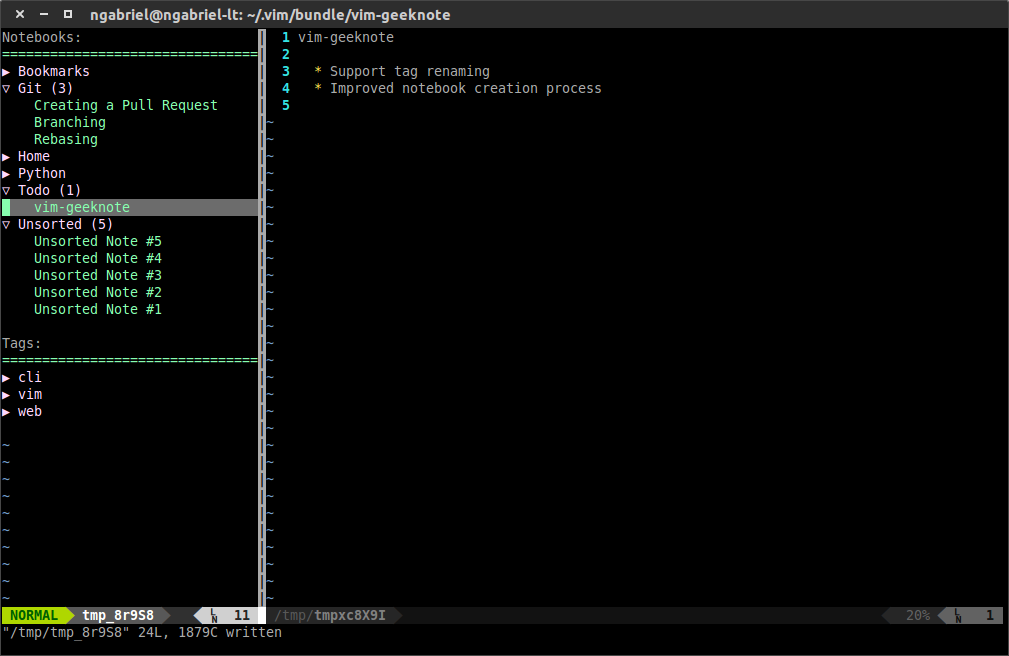
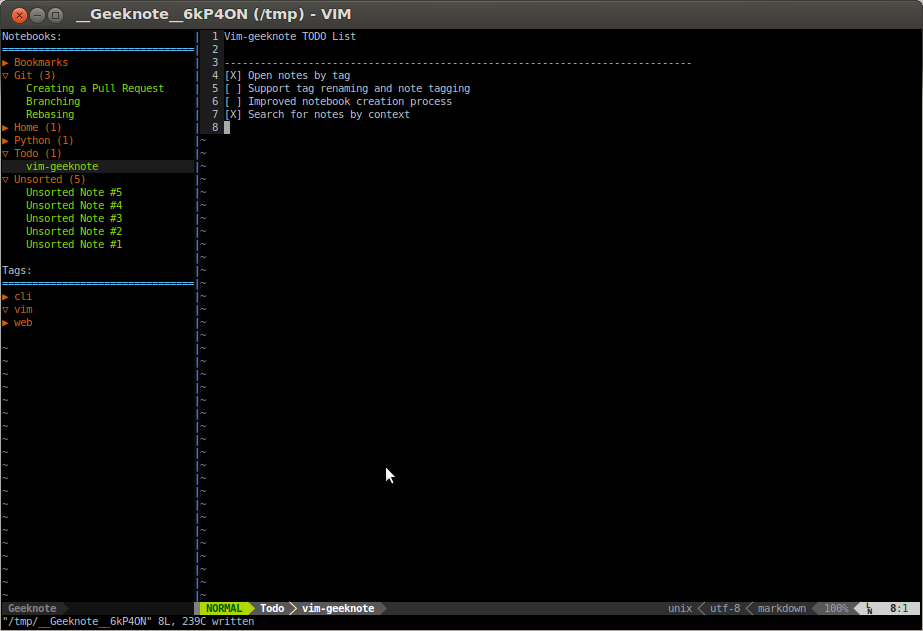
Version 0.6: Minor UI improvements.

Changed region(s): [[0.0, 0.0, 1.0, 1.0], [0.0, 0.7528, 0.0303, 0.8431], [0.0, 0.6926, 0.0303, 0.7227]]

diff --git a/plugin/explorer.py b/plugin/explorer.py
@@ -178,9 +178,9 @@ class NotebookNode(Node):
             del self.children[:]
 
             notes = self.getNotes()
-
             for note in notes:
                 self.addNote(note)
+
             self.loaded = True
 
         super(NotebookNode, self).expand()
@@ -275,6 +275,7 @@ class NoteNode(Node):
         line  = ' ' * (self.indent * 4)
         line += self.title.decode('utf8')
 
+        line = line.encode('utf8')
         self.prefWidth = len(line)
 
         line = '{:<48} n[{}]'.format(line, self.getKey())
@@ -360,7 +361,8 @@ class Explorer(object):
 
         self.refresh()
 
-        self.dataFile = tempfile.NamedTemporaryFile(delete=True)
+        self.dataFile = tempfile.NamedTemporaryFile(
+            prefix='__GeeknoteExplorer__', delete=True)
 
         autocmd('BufWritePre' , 
                 self.dataFile.name, 
@@ -391,18 +393,34 @@ class Explorer(object):
 
     def addNote(self, note):
         notebook = getNodeByInstance(note.notebookGuid, 0)
+        node = notebook.addNote(note) 
+
+        #
+        # Expand the notebook so that the new node can be selected. This must
+        # occur after the node is added to the notebook. If done before, it is
+        # possible for the node to get added twice.
+        #
         notebook.expand()
 
-        node = notebook.addNote(note) 
+        #
+        # Re-render the explorer window. This ensures that the new node will
+        # assigned a row number so that it can be selected.
+        #
+        self.render()
         self.selectNode(node)
 
     def addNotebook(self, notebook):
         node = NotebookNode(notebook)
+        registerNode(node)
+
         self.notebooks.append(node)
         self.notebooks.sort(key=lambda n: n.notebook.name.lower())
 
-        registerNode(node)
-
+        #
+        # Re-render the explorer window. This ensures that the new node will
+        # assigned a row number so that it can be selected.
+        #
+        self.render()
         self.selectNode(node)
 
     def addSearchResults(self, results):
@@ -482,7 +500,7 @@ class Explorer(object):
 
         return None
 
-    def getSelectedNotebook(self):
+    def getSelectedNode(self):
         if self.buffer is None:
             return None
 
@@ -493,13 +511,17 @@ class Explorer(object):
 
         key = self.getNodeKey(text)
         if key is not None:
-            node = getNode(key)
-            if isinstance(node, NotebookNode):
+            return getNode(key)
+        return None
+
+    def getSelectedNotebook(self):
+        node = self.getSelectedNode()
+        if isinstance(node, NotebookNode):
+            return node.notebook
+        if isinstance(node, NoteNode): 
+            if isinstance(node.parent, NotebookNode):
+                node = getNode(node.parent.getKey())
                 return node.notebook
-            if isinstance(node, NoteNode): 
-                if isinstance(node.parent, NotebookNode):
-                    node = getNode(node.parent.getKey())
-                    return node.notebook
         return None
 
     def getNodeKey(self, nodeText):
@@ -555,10 +577,6 @@ class Explorer(object):
             self.addTag(tag)
         self.restoreExpandState()
 
-        if self.selectedNode is None:
-            notebook = GeeknoteGetDefaultNotebook()
-            self.selectNotebook(notebook)
-
     def refreshNotebooks(self):
         #
         # If the user already specified which notebooks to load, load just
@@ -603,6 +621,12 @@ class Explorer(object):
 
         origWin = getActiveWindow()
         setActiveBuffer(self.buffer)
+
+        # Save the selected node before redrawing the explorer.
+        self.selectedNode = self.getSelectedNode()
+        if self.selectedNode is None:
+            notebook = GeeknoteGetDefaultNotebook()
+            self.selectNotebook(notebook)
 
         # 
         # Before overwriting the navigation window, look for any changes made

diff --git a/plugin/vim_geeknote.py b/plugin/vim_geeknote.py
@@ -34,8 +34,11 @@ explorer = Explorer()
 def GeeknoteActivateNode():
     explorer.activateNode(vim.current.line)
 
-def GeeknoteTerminate():
-    GeeknoteCloseAllNotes()
+def GeeknoteCommitStart():
+    explorer.commitChanges()
+
+def GeeknoteCommitComplete():
+    explorer.render()
 
 def GeeknoteCreateNote(title):
     #
@@ -66,7 +69,6 @@ def GeeknoteCreateNote(title):
 
     # Add the note to the navigation window.
     explorer.addNote(note)
-    explorer.render()
 
 def GeeknoteCreateNotebook(name):
     notebook = Types.Notebook()
@@ -77,7 +79,17 @@ def GeeknoteCreateNotebook(name):
         vim.command('echoerr "Failed to create notebook."')
 
     explorer.addNotebook(notebook)
-    explorer.render()
+
+def GeeknoteHandleNoteSaveFailure(note, e):
+    print e
+    msg  = '+------------------- WARNING -------------------+\n'
+    msg += '|                                               |\n'
+    msg += '| Failed to save note (see error above)         |\n'
+    msg += '|                                               |\n'
+    msg += '| Save buffer to a file to avoid losing content |\n'
+    msg += '|                                               |\n'
+    msg += '+------------------- WARNING -------------------+\n'
+    vim.command('echoerr "%s"' % msg)
 
 def GeeknoteSaveAsNote():
     global explorer
@@ -129,17 +141,10 @@ def GeeknoteSaveAsNote():
         GeeknoteHandleNoteSaveFailure(note, e)
         return
 
-    explorer.addNote(note)
-    explorer.render()
-
     GeeknoteOpenNote(note)
 
-def GeeknoteSearch(args):
-    notes = GeeknoteGetNotes(args)
-
-    explorer.clearSearchResults()
-    explorer.addSearchResults(notes)
-    explorer.render()
+    # Add the note to the navigation window.
+    explorer.addNote(note)
 
 def GeeknoteSaveNote(filename):
     note    = GeeknoteGetOpenNote(filename)
@@ -150,27 +155,20 @@ def GeeknoteSaveNote(filename):
         except Exception as e:
             GeeknoteHandleNoteSaveFailure(note, e)
 
-def GeeknoteHandleNoteSaveFailure(note, e):
-    msg  = '%s\n' % e
-    msg += '+------------------- WARNING -------------------+\n'
-    msg += '|                                               |\n'
-    msg += '| Failed to save note (see error above)         |\n'
-    msg += '|                                               |\n'
-    msg += '| Save buffer to a file to avoid losing content |\n'
-    msg += '|                                               |\n'
-    msg += '+------------------- WARNING -------------------+\n'
-    vim.command('echoerr "%s"' % msg)
+def GeeknoteSearch(args):
+    notes = GeeknoteGetNotes(args)
+
+    explorer.clearSearchResults()
+    explorer.addSearchResults(notes)
+    explorer.render()
 
 def GeeknoteSync():
     explorer.commitChanges()
     explorer.refresh()    
     explorer.render()
 
-def GeeknoteCommitStart():
-    explorer.commitChanges()
-
-def GeeknoteCommitComplete():
-    explorer.render()
+def GeeknoteTerminate():
+    GeeknoteCloseAllNotes()
 
 def GeeknoteToggle():
     global explorer

diff --git a/plugin/view.py b/plugin/view.py
@@ -114,7 +114,8 @@ def GeeknoteOpenNote(note):
         content = tools.stdoutEncode(content)
 
         # Write the note's title and content to a temporary file.
-        f = tempfile.NamedTemporaryFile(delete=False)
+        f = tempfile.NamedTemporaryFile(prefix='__Geeknote__', delete=False)
+
         f.write(note.title + '\n\n')
         
         isNoteEmpty = not content.strip()
@@ -149,6 +150,10 @@ def GeeknoteOpenNote(note):
         autocmd('BufDelete',
                 f.name, 
                 ':call Vim_GeeknoteCloseNote("{}")'.format(f.name))
+
+        vim.command("let b:GeeknoteTitle=\"%s\"" % note.title)
+        notebook = GeeknoteGetNotebook(note.notebookGuid)
+        vim.command("let b:GeeknoteNotebook=\"%s\"" % notebook.name)
     #
     # Otherwise, the note has aleady been opened. Simply switch the active window
     # to the note's buffer.

diff --git a/powerline/segments/geeknote.py b/powerline/segments/geeknote.py
@@ -1,0 +1,32 @@
+# vim:fileencoding=utf-8:noet
+from __future__ import (unicode_literals, division, absolute_import, print_function)
+
+try:
+	import vim
+except ImportError:
+	vim = object()
+
+from powerline.bindings.vim import bufvar_exists
+from powerline.segments.vim import window_cached
+
+
+@window_cached
+def geeknote_get_note_title(pl):
+	if not bufvar_exists(None, 'GeeknoteTitle'):
+		return None
+
+	title = vim.eval('getbufvar("%", "GeeknoteTitle")')
+	return [{
+		'contents': title,
+		'highlight_group': ['file_name'],
+	}]
+
+def geeknote_get_notebook_name(pl):
+	if not bufvar_exists(None, 'GeeknoteNotebook'):
+		return None
+
+	name = vim.eval('getbufvar("%", "GeeknoteNotebook")')
+	return [{
+		'contents': name,
+		'highlight_group': ['file_name'],
+	}]

diff --git a/powerline/matchers/geeknote.py b/powerline/matchers/geeknote.py
@@ -1,0 +1,19 @@
+# vim:fileencoding=utf-8:noet
+from __future__ import (unicode_literals, division, absolute_import, print_function)
+
+import os
+import re
+
+from powerline.bindings.vim import buffer_name
+
+GEEKNOTE_RE = re.compile('__Geeknote__')
+
+def geeknote(matcher_info):
+	name = buffer_name(matcher_info)
+	return name and GEEKNOTE_RE.match(os.path.basename(name))
+
+GEEKNOTE_EXPLORER_RE = re.compile('__GeeknoteExplorer__')
+
+def geeknote_explorer(matcher_info):
+	name = buffer_name(matcher_info)
+	return name and GEEKNOTE_EXPLORER_RE.match(os.path.basename(name))

diff --git a/plugin/enml.py b/plugin/enml.py
@@ -41,6 +41,7 @@ def textToENML(content):
 
     content = content.replace('<', '&lt;')
     content = content.replace('>', '&gt;')
+    content = content.replace('&', '&amp;')
     content = unicode(content, "utf-8")
     contentHTML = u''.join(('<pre>', content, '</pre>')).encode("utf-8")
 

diff --git a/README.md b/README.md
@@ -15,7 +15,7 @@ Integrates Geeknote/Evernote into Vim.
 ## Dependencies/Requirements
 
 - Vim 7.4.364 or newer (issues observed with earlier versions)
-- Linux (not tested on operating systems)
+- Linux or OSX (not tested on Windows)
 
 ## Installation
 
@@ -27,9 +27,11 @@ Integrates Geeknote/Evernote into Vim.
 
 * [Vundle](https://github.com/gmarik/vundle)
    * Add `Bundle 'https://github.com/neilagabriel/vim-geeknote'` to .vimrc
-   * Run `:BundeInstall`
+   * Run `:BundleInstall`
 * [Pathogen](https://github.com/tpope/vim-pathogen)
    * `git clone https://github.com/neilagabriel/vim-geeknote ~/.vim/bundle/vim-geeknote`
+
+3. If using macvim refer to [README_mac.md](README_mac.md) for additional instructions.
 
 ## Optional Setup and Configuration
 
@@ -109,7 +111,7 @@ degrade it depending on the number of expressions you specify.
     \        '^Status - WW(\d+)$',
     \    ]
 
-#### Explorer Special Characters
+### Explorer Special Characters
 
 The following options may be used to customize the characters used to denote
 opened/closed notebooks and tags:
@@ -125,6 +127,16 @@ It may sometimes be convenient to launch geeknote in a new instance of Vim. An
 alias can be helpful for this. Here an example for `bash`:
 
     alias vim-geeknote='vi -c Geeknote'
+
+### Powerline
+
+Powerline may be used to improve the look of the navigation window as well as
+any notes that you open. At this time however, if you'd like this support,
+you'll need to use my personal powerline fork locate here:
+
+    https://github.com/neilagabriel/powerline.git
+
+Just install it in the normal fashion and everything should just work.
 
 ### Geeknote Autocommands
 

diff --git a/README_mac.md b/README_mac.md
@@ -1,0 +1,30 @@
+# Macvim Installation Instructions
+
+(Instructions provided by [Nathan Farrar](https://github.com/nfarrar) - Thanks!)
+
+On OSX it's common for users to install python using homebrew and set it as the
+default python interpreter in their shellrc files. Then, if you install
+vgeeknote, the libs & geeknote run using that python, not the system python.
+
+When installing macvim, it will use the system's python interpreter by default
+rather than the homebrew installed python. If you attempt to run a python
+script that that requires dependencies that were installed to the homebrew
+python rather than the system python, you just get nasty error messages.
+
+To see if this is the issue, you can run:
+
+    vim --version
+
+And if you see:
+
+    -I/System/Library/Frameworks/Python.framework/Versions/2.7/include/python2.7
+
+Then the problem is the one described above. The fix is to uninstall macvim,
+then reinstall with the following flags:
+
+    brew install macvim --with-lua --override-system-vim
+
+And now vim --version should show:
+
+    -I/usr/local/Cellar/python/2.7.8_2/Frameworks/Python.framework/Versions/2.7/include/python2.7
+
